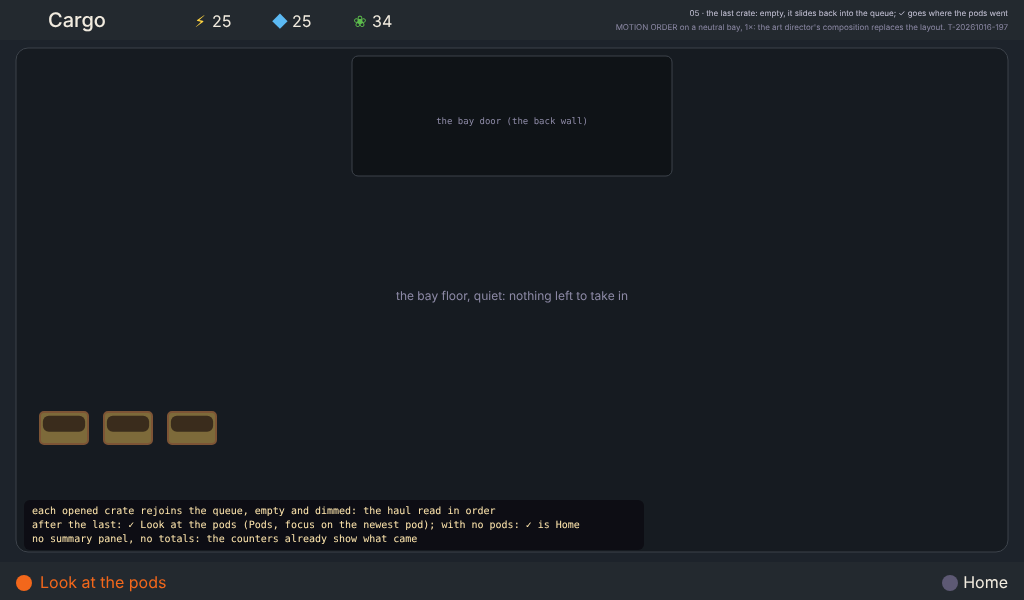
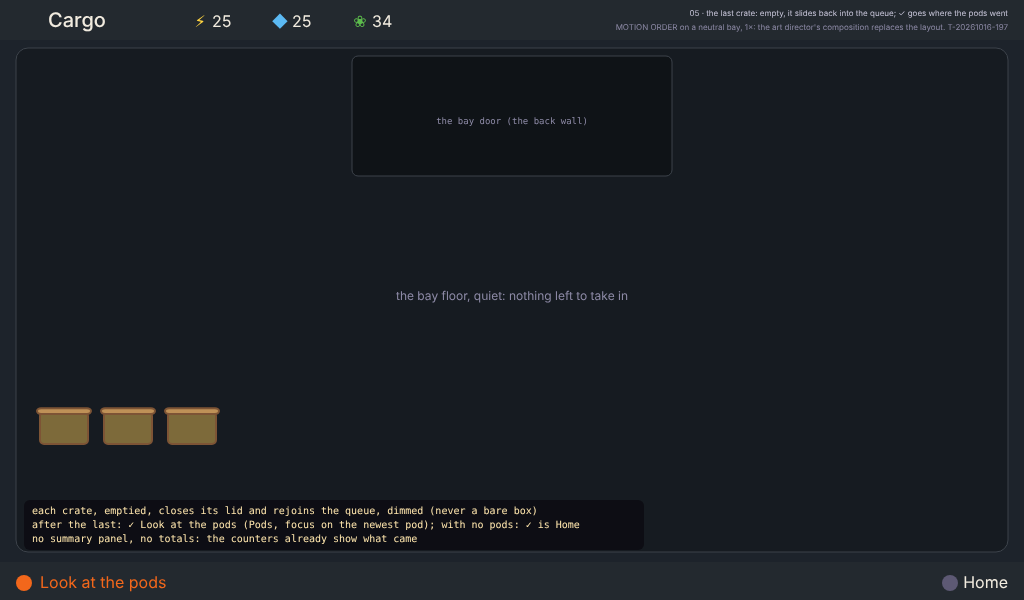
T-20261016-197: align with the game designer's crate contents

Changed region(s): [[0.0625, 0.84, 0.5312, 0.87], [0.0312, 0.66, 0.2188, 0.72]]

diff --git a/results/T-20261016-197/ui-ux.md b/results/T-20261016-197/ui-ux.md
@@ -26,12 +26,16 @@ There are no paths, no dots, no trails and no "in flight". Each thing's journey 
 3. **The arrival answers.**
    - The counter ticks with the house flash. The flash shows the same "+n" the token wore on the floor, so the number at each end is the link.
    - The pod's well lights `mint` as it settles.
-4. **The source empties.** What has left is gone from the floor. When the crate is empty it slides back into the queue, dimmed (`05`). The queue then reads as the haul, taken in order.
+4. **The source empties.** What has left is gone from the floor. When the crate is empty it closes its lid and slides back into the queue, dimmed (`05`). It is never left as a bare box (the game designer). The queue then reads as the haul, taken in order.
 
 **Order within a crate:**
 - The materials go first, together, a beat apart, all to the top bar. They are small and fast.
 - Then the pods go one at a time, each its own moment. They are the thread.
-- After the last pod the hatch closes. If Pods is full, the hatch stays shut with its amber lamp and the pod waits sealed on the floor. That is a fact, not a loss; the game designer words it, if it needs words.
+- After the last pod the hatch closes.
+- **No free well:** the pod waits on the bay floor, sealed, in view, and lands when a well frees (the game designer). The hatch doesn't open for it, and there is no coral and no "full" plate. In that state alone the middle slot may carry the game designer's "a pod waits for a well", because a picture can't say when it will land.
+- **Finds and portraits:**
+  - A find lands on the bay floor and stays until its home is ruled (the game designer's open point).
+  - A portrait crate's painting goes to its mibi. That destination is off-screen, so it lifts toward the Vivarium's side and the screen does not follow it.
 
 **Why this reads without a caption:** the destination moves before the object, and the same object or number arrives there. Nothing on screen needs a note to be understood (§7, "nothing only a caption explains").
 
@@ -48,6 +52,7 @@ There are no paths, no dots, no trails and no "in flight". Each thing's journey 
 | While a crate plays | **Skip**: cuts this crate's hand-off to its end (everything arrived); the next crate starts (the panel spec's cut 4, the skip rule) | empty | Home |
 | After the last crate, with pods arrived | **Look at the pods**: Pods, with the ring on the newest pod | empty | Home |
 | After the last crate, with no pods | none (no ✓ cap) | empty | Home |
+| A pod waiting for a well | as above | "a pod waits for a well" (the game designer) | Home |
 
 - **Gone:**
   - the context "any key: the next crate" (the crates play by themselves; ✓ skips);
